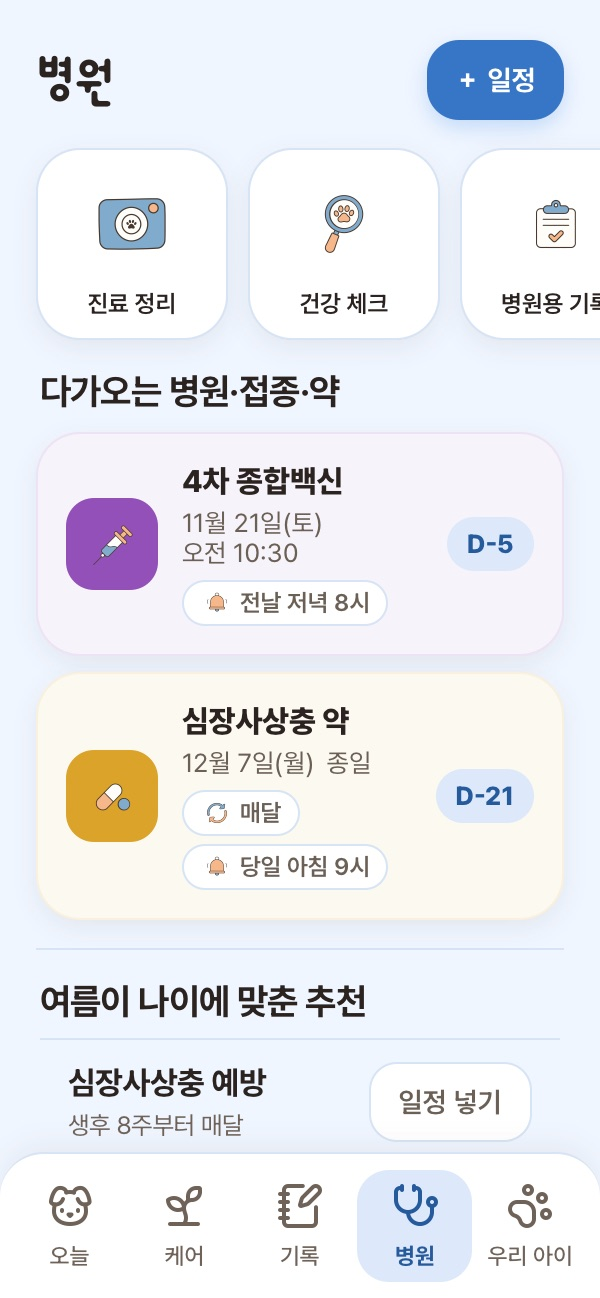
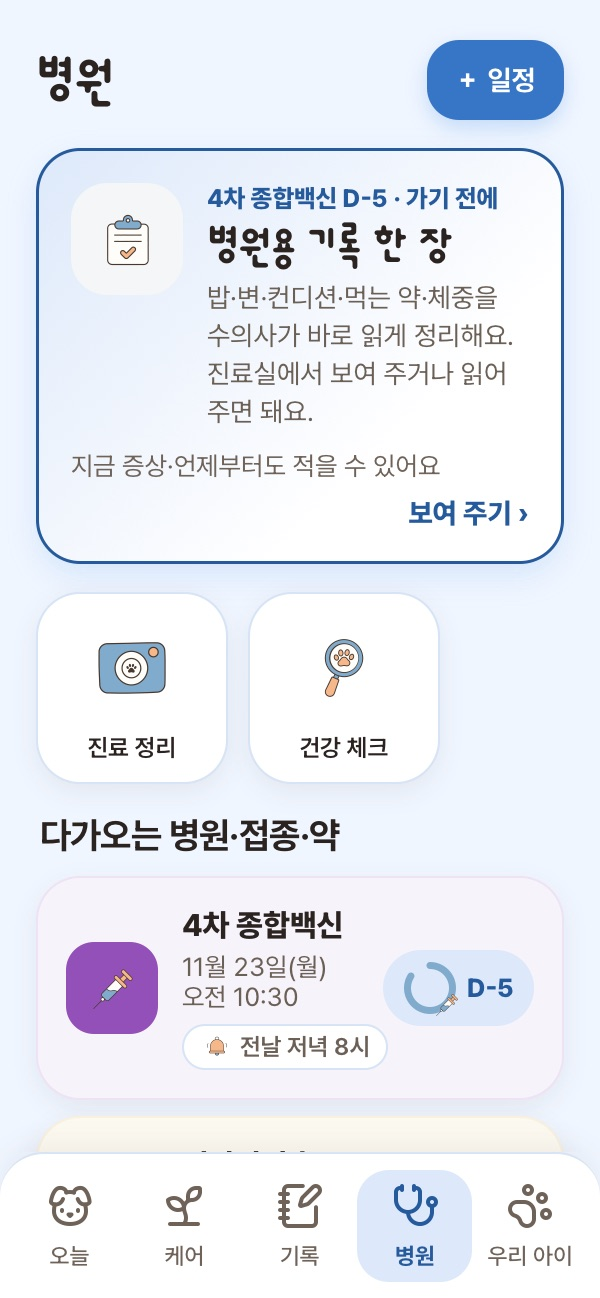
병원용 기록 앞세우기: 병원 탭 맨 위 큰 카드, 첫 걸음 1번 예시 미리보기, 홈페이지 첫 화면 문구·병원 탭 미리보기·스크린샷 v10

diff --git a/public/intro/guide/index.html b/public/intro/guide/index.html
@@ -96,7 +96,7 @@
           </div>
           <figure class="g-sec-shot"><img src="/intro/img/profile.jpg?v=9" alt="우리 아이 화면 예시" width="300" height="649" loading="lazy" /><figcaption>예시 화면</figcaption></figure>
         </header>
-        <article class="g-q" id="pf-card"><h3>맨 위 카드에는 뭐가 있어요?</h3><p>나이·견종·몸무게·중성화와 <b>먹는 약·알레르기</b>가 보여요. '정보 전체 보기'로 생일·입양일·다니는 병원 같은 정보를 펼쳐요.</p><p>우리 아이 탭 맨 위 <b>대표 사진</b>의 📷를 눌러 바꿔요. 아래 <b>성장 추억</b>에 사진을 여러 장 모을 수 있고, 사진을 누르면 그날의 문구를 적고 스티커·글자로 꾸미거나 대표 사진으로 바꿀 수 있어요. 병원·증상 사진은 성장 추억 대신 그 기록에 남아요.</p><p><b>프로필 편집</b>에서 정보를 고치고, 사진을 지울 수 있어요. 사진은 위 사진을 눌러 바꿔요.</p></article><article class="g-q" id="pf-vitals"><h3>건강 수치 칸은 어떻게 읽어요?</h3><p>처음엔 몸무게만 보여요. 호흡수·체온·음수량처럼 따로 재는 수치는 [편집]에서 켜요. 밥 먹은 양은 기록 탭의 식사에서 건식·습식과 g으로 한 번에 적어요. 칸을 누르면 그래프와 재는 방법이 나와요.</p><dl class="g-table"><div><dt>큰 숫자 + '오늘'</dt><dd>오늘 적은 값</dd></div><div><dt>'—' + '마지막 어제'</dt><dd>오늘은 아직 안 적었어요</dd></div><div><dt>흐린 숫자</dt><dd>오래된 값이에요 (7일, 몸무게는 30일 지남)</dd></div><div><dt>'참고 범위 밖'</dt><dd>일반적인 범위와 달라요. 계속되면 병원에 물어보세요</dd></div></dl><p class="g-tip"><svg class="sk" aria-hidden="true"><use href="/sk/stickers.svg?v=3#sk-idea"/></svg><span><b>알아 두면 좋아요</b> '편집'을 누르면 늘 보일 칸을 고를 수 있어요.</span></p></article><article class="g-q" id="pf-records"><h3>건강 기록은 뭘 적어요?</h3><p><b>기록 탭 → [＋ 새 기록]</b>을 누르거나, 달력에서 날짜를 고른 뒤 <b>[＋ 이날 더 적기]</b>를 눌러요. 새 기록을 누르면 <b>체중 · 밥·물 · 배변·배뇨 · 증상 · 건강 수치 · 복약 · 병원 진료 · 성장 추억 · 일상·컨디션</b> 아홉 가지 중에 골라요. 사진과 메모는 어디에나 붙일 수 있어요.</p><dl class="g-table"><div><dt>체중</dt><dd>몸무게(kg)와 잰 방법</dd></div><div><dt>밥·물</dt><dd>건식·습식·물을 양(g·ml)으로, 식욕과 물 마신 정도</dd></div><div><dt>배변·배뇨</dt><dd>대변(모양·색·보이는 것)과 소변 상태</dd></div><div><dt>증상</dt><dd>구토·설사·기침·절뚝거림 같은 종류와 횟수, 본 모습</dd></div><div><dt>건강 수치</dt><dd>호흡수·체온·음수량처럼 따로 재는 값</dd></div><div><dt>복약</dt><dd>먹인 약과 시각</dd></div><div><dt>병원 진료</dt><dd>병원·이유·설명·검사·처방. 진료비를 적으면 가계부에, 다음 진료일을 적으면 일정표에도 들어가요</dd></div><div><dt>성장 추억</dt><dd>사진을 모아 두고 그날의 문구를 적어요</dd></div><div><dt>일상·컨디션</dt><dd>산책·간식·미용·양치·놀이 / 활동량·수면·피부·구강</dd></div></dl></article><article class="g-q" id="pf-vet"><h3>병원용 기록은 뭐예요?</h3><figure class="g-shot"><img src="/intro/img/vet.jpg?v=9" alt="병원용 기록 화면 예시" width="300" height="649" loading="lazy" /><figcaption>병원용 기록 화면 예시</figcaption></figure><p>병원에서 <b>“언제부터 그랬어요?”</b>에 바로 답할 수 있게 기록을 한 장으로 정리해 줘요.</p><ol class="g-steps"><li>'이번 진료 메모'에 지금 보이는 증상, 언제부터, 여쭤볼 것을 적어요.</li><li>넣을 기록과 기간(7·30·90일)을 골라요.</li><li>진료실에서 <b>보여 주기</b>(크게), <b>읽어 주기</b>, <b>공유</b>, <b>PDF로 저장</b> 중에 써요.</li></ol></article><article class="g-q" id="pf-meds"><h3>약은 어떻게 챙겨요?</h3><ol class="g-steps"><li>'투약' 칸이나 '투약 기록'을 눌러 <b>약 관리</b>로 가요.</li><li>약 이름·1회 양·먹일 시간·요일·기간을 처방대로 넣어요.</li><li>시간이 되면 알림이 오고, <b>먹였어요</b>나 <b>건너뜀</b>을 눌러요.</li></ol><p>기록을 안 누른 약은 '확인 필요'로 보여요. 남은 양도 알려 줘요.</p></article><article class="g-q" id="pf-report"><h3>주간 리포트는 뭐예요?</h3><p>지난 7일 동안 적은 기록을 <b>숫자로 모아</b> 보여 줘요. 건강 기록 카드 아래 <b>'이번 주 리포트'</b>를 누르거나, <b>일요일 저녁 8시</b> 알림을 누르면 열려요.</p><dl class="g-table"><div><dt>산책</dt><dd>며칠, 모두 몇 분</dd></div><div><dt>밥</dt><dd>평소만큼 / 적게 먹은 횟수</dd></div><div><dt>무른 변·설사</dt><dd>있었던 날짜</dd></div><div><dt>증상 기록</dt><dd>날짜별 목록</dd></div><div><dt>체중</dt><dd>지난 기록과의 차이</dd></div><div><dt>혼자 있던 시간</dt><dd>[다녀올게]를 누른 날의 하루 평균</dd></div><div><dt>다음 7일</dt><dd>일정과 사료 남은 날</dd></div></dl><p class="g-note"><svg class="sk" aria-hidden="true"><use href="/sk/stickers.svg?v=3#sk-alert"/></svg><span>적어 둔 기록을 그대로 센 숫자예요. 몸 상태를 판단하거나 점수를 매기지 않아요.</span></p><p>리포트 아래 <b>[이번 주 카드로 자랑하기]</b>를 누르면 함께 본 날·산책·몸무게·기록 수를 예쁜 그림 한 장으로 만들어 인스타·카톡에 올릴 수 있어요. 건강 기록은 그림에 넣지 않아요.</p></article><article class="g-q" id="pf-settings"><h3>설정에는 뭐가 있어요?</h3><p>우리 아이 탭 오른쪽 위 <b>메뉴(☰)</b>를 누르세요. 묶음별로 정리돼 있어요.</p><dl class="g-table"><div><dt>계정</dt><dd><b>백업·로그인</b>(카카오·이메일, 계정 삭제) · <b>가족 공유</b>(초대 코드를 보내면 가족이 같은 기록을 봐요)</dd></div><div><dt>우리 강아지</dt><dd>강아지 목록(누르면 바뀌어요) · <b>가족(본가) 집에 있어요</b> 스위치 · 새 강아지 등록하기</dd></div><div><dt>화면</dt><dd>다크 모드 · 배경 테마(색 조합과 발바닥 무늬) · 퍼피 100일 카드 켜고 끄기</dd></div><div><dt>기록</dt><dd><b>기록 내보내기</b>(병원용 기록 PDF, 엑셀용 CSV, 전체 백업 JSON — 무료) · AI 정보 전송 동의 확인·철회</dd></div><div><dt>멍케어</dt><dd><b>의견 보내기</b>(베타 기간엔 여기로 불편한 점을 알려 주세요) · 도움말 · 문의하기 · 가이드북·홈페이지·블로그·인스타·스레드 링크</dd></div><div><dt>삭제</dt><dd>이 강아지 삭제 · 전체 삭제</dd></div></dl></article>
+        <article class="g-q" id="pf-card"><h3>맨 위 카드에는 뭐가 있어요?</h3><p>나이·견종·몸무게·중성화와 <b>먹는 약·알레르기</b>가 보여요. '정보 전체 보기'로 생일·입양일·다니는 병원 같은 정보를 펼쳐요.</p><p>우리 아이 탭 맨 위 <b>대표 사진</b>의 📷를 눌러 바꿔요. 아래 <b>성장 추억</b>에 사진을 여러 장 모을 수 있고, 사진을 누르면 그날의 문구를 적고 스티커·글자로 꾸미거나 대표 사진으로 바꿀 수 있어요. 병원·증상 사진은 성장 추억 대신 그 기록에 남아요.</p><p><b>프로필 편집</b>에서 정보를 고치고, 사진을 지울 수 있어요. 사진은 위 사진을 눌러 바꿔요.</p></article><article class="g-q" id="pf-vitals"><h3>건강 수치 칸은 어떻게 읽어요?</h3><p>처음엔 몸무게만 보여요. 호흡수·체온·음수량처럼 따로 재는 수치는 [편집]에서 켜요. 밥 먹은 양은 기록 탭의 식사에서 건식·습식과 g으로 한 번에 적어요. 칸을 누르면 그래프와 재는 방법이 나와요.</p><dl class="g-table"><div><dt>큰 숫자 + '오늘'</dt><dd>오늘 적은 값</dd></div><div><dt>'—' + '마지막 어제'</dt><dd>오늘은 아직 안 적었어요</dd></div><div><dt>흐린 숫자</dt><dd>오래된 값이에요 (7일, 몸무게는 30일 지남)</dd></div><div><dt>'참고 범위 밖'</dt><dd>일반적인 범위와 달라요. 계속되면 병원에 물어보세요</dd></div></dl><p class="g-tip"><svg class="sk" aria-hidden="true"><use href="/sk/stickers.svg?v=3#sk-idea"/></svg><span><b>알아 두면 좋아요</b> '편집'을 누르면 늘 보일 칸을 고를 수 있어요.</span></p></article><article class="g-q" id="pf-records"><h3>건강 기록은 뭘 적어요?</h3><p><b>기록 탭 → [＋ 새 기록]</b>을 누르거나, 달력에서 날짜를 고른 뒤 <b>[＋ 이날 더 적기]</b>를 눌러요. 새 기록을 누르면 <b>체중 · 밥·물 · 배변·배뇨 · 증상 · 건강 수치 · 복약 · 병원 진료 · 성장 추억 · 일상·컨디션</b> 아홉 가지 중에 골라요. 사진과 메모는 어디에나 붙일 수 있어요.</p><dl class="g-table"><div><dt>체중</dt><dd>몸무게(kg)와 잰 방법</dd></div><div><dt>밥·물</dt><dd>건식·습식·물을 양(g·ml)으로, 식욕과 물 마신 정도</dd></div><div><dt>배변·배뇨</dt><dd>대변(모양·색·보이는 것)과 소변 상태</dd></div><div><dt>증상</dt><dd>구토·설사·기침·절뚝거림 같은 종류와 횟수, 본 모습</dd></div><div><dt>건강 수치</dt><dd>호흡수·체온·음수량처럼 따로 재는 값</dd></div><div><dt>복약</dt><dd>먹인 약과 시각</dd></div><div><dt>병원 진료</dt><dd>병원·이유·설명·검사·처방. 진료비를 적으면 가계부에, 다음 진료일을 적으면 일정표에도 들어가요</dd></div><div><dt>성장 추억</dt><dd>사진을 모아 두고 그날의 문구를 적어요</dd></div><div><dt>일상·컨디션</dt><dd>산책·간식·미용·양치·놀이 / 활동량·수면·피부·구강</dd></div></dl></article><article class="g-q" id="pf-vet"><h3>병원용 기록은 뭐예요?</h3><figure class="g-shot"><img src="/intro/img/vet.jpg?v=10" alt="병원용 기록 화면 예시" width="300" height="649" loading="lazy" /><figcaption>병원용 기록 화면 예시</figcaption></figure><p>병원에서 <b>“언제부터 그랬어요?”</b>에 바로 답할 수 있게 기록을 한 장으로 정리해 줘요.</p><ol class="g-steps"><li>'이번 진료 메모'에 지금 보이는 증상, 언제부터, 여쭤볼 것을 적어요.</li><li>넣을 기록과 기간(7·30·90일)을 골라요.</li><li>진료실에서 <b>보여 주기</b>(크게), <b>읽어 주기</b>, <b>공유</b>, <b>PDF로 저장</b> 중에 써요.</li></ol></article><article class="g-q" id="pf-meds"><h3>약은 어떻게 챙겨요?</h3><ol class="g-steps"><li>'투약' 칸이나 '투약 기록'을 눌러 <b>약 관리</b>로 가요.</li><li>약 이름·1회 양·먹일 시간·요일·기간을 처방대로 넣어요.</li><li>시간이 되면 알림이 오고, <b>먹였어요</b>나 <b>건너뜀</b>을 눌러요.</li></ol><p>기록을 안 누른 약은 '확인 필요'로 보여요. 남은 양도 알려 줘요.</p></article><article class="g-q" id="pf-report"><h3>주간 리포트는 뭐예요?</h3><p>지난 7일 동안 적은 기록을 <b>숫자로 모아</b> 보여 줘요. 건강 기록 카드 아래 <b>'이번 주 리포트'</b>를 누르거나, <b>일요일 저녁 8시</b> 알림을 누르면 열려요.</p><dl class="g-table"><div><dt>산책</dt><dd>며칠, 모두 몇 분</dd></div><div><dt>밥</dt><dd>평소만큼 / 적게 먹은 횟수</dd></div><div><dt>무른 변·설사</dt><dd>있었던 날짜</dd></div><div><dt>증상 기록</dt><dd>날짜별 목록</dd></div><div><dt>체중</dt><dd>지난 기록과의 차이</dd></div><div><dt>혼자 있던 시간</dt><dd>[다녀올게]를 누른 날의 하루 평균</dd></div><div><dt>다음 7일</dt><dd>일정과 사료 남은 날</dd></div></dl><p class="g-note"><svg class="sk" aria-hidden="true"><use href="/sk/stickers.svg?v=3#sk-alert"/></svg><span>적어 둔 기록을 그대로 센 숫자예요. 몸 상태를 판단하거나 점수를 매기지 않아요.</span></p><p>리포트 아래 <b>[이번 주 카드로 자랑하기]</b>를 누르면 함께 본 날·산책·몸무게·기록 수를 예쁜 그림 한 장으로 만들어 인스타·카톡에 올릴 수 있어요. 건강 기록은 그림에 넣지 않아요.</p></article><article class="g-q" id="pf-settings"><h3>설정에는 뭐가 있어요?</h3><p>우리 아이 탭 오른쪽 위 <b>메뉴(☰)</b>를 누르세요. 묶음별로 정리돼 있어요.</p><dl class="g-table"><div><dt>계정</dt><dd><b>백업·로그인</b>(카카오·이메일, 계정 삭제) · <b>가족 공유</b>(초대 코드를 보내면 가족이 같은 기록을 봐요)</dd></div><div><dt>우리 강아지</dt><dd>강아지 목록(누르면 바뀌어요) · <b>가족(본가) 집에 있어요</b> 스위치 · 새 강아지 등록하기</dd></div><div><dt>화면</dt><dd>다크 모드 · 배경 테마(색 조합과 발바닥 무늬) · 퍼피 100일 카드 켜고 끄기</dd></div><div><dt>기록</dt><dd><b>기록 내보내기</b>(병원용 기록 PDF, 엑셀용 CSV, 전체 백업 JSON — 무료) · AI 정보 전송 동의 확인·철회</dd></div><div><dt>멍케어</dt><dd><b>의견 보내기</b>(베타 기간엔 여기로 불편한 점을 알려 주세요) · 도움말 · 문의하기 · 가이드북·홈페이지·블로그·인스타·스레드 링크</dd></div><div><dt>삭제</dt><dd>이 강아지 삭제 · 전체 삭제</dd></div></dl></article>
         <a class="g-next" href="#calendar"><span>다음</span><b>병원 · 일정표</b><svg class="ic" aria-hidden="true"><use href="/intro/sprite.svg#i-chev"/></svg></a>
       </section>
       <section class="g-sec" id="calendar" aria-labelledby="calendar-t">
@@ -107,7 +107,7 @@
             <p class="g-sum">챙겨야 할 날을 넣어 두면 대신 기억하고 미리 알려 주는 달력이에요.</p>
             <nav class="g-qlist" aria-label="병원 · 일정표에서 궁금한 것"><a href="#cl-doc">진료 정리는 뭐예요?<svg class="ic" aria-hidden="true"><use href="/intro/sprite.svg#i-chev"/></svg></a><a href="#cl-add">일정은 어떻게 넣어요?<svg class="ic" aria-hidden="true"><use href="/intro/sprite.svg#i-chev"/></svg></a><a href="#cl-repeat">매달 하는 일은요?<svg class="ic" aria-hidden="true"><use href="/intro/sprite.svg#i-chev"/></svg></a><a href="#cl-alarm">알림은 언제 와요?<svg class="ic" aria-hidden="true"><use href="/intro/sprite.svg#i-chev"/></svg></a><a href="#cl-holiday">빨간 날짜는 뭐예요?<svg class="ic" aria-hidden="true"><use href="/intro/sprite.svg#i-chev"/></svg></a><a href="#cl-vet">다녀온 병원도 보여요?<svg class="ic" aria-hidden="true"><use href="/intro/sprite.svg#i-chev"/></svg></a><a href="#cl-today">다른 달을 보다가 오늘로 오려면요?<svg class="ic" aria-hidden="true"><use href="/intro/sprite.svg#i-chev"/></svg></a></nav>
           </div>
-          <figure class="g-sec-shot"><img src="/intro/img/hospital.jpg?v=9" alt="병원 화면 예시" width="300" height="649" loading="lazy" /><figcaption>예시 화면</figcaption></figure>
+          <figure class="g-sec-shot"><img src="/intro/img/hospital.jpg?v=10" alt="병원 화면 예시" width="300" height="649" loading="lazy" /><figcaption>예시 화면</figcaption></figure>
         </header>
         <article class="g-q" id="cl-doc"><h3>진료 정리는 뭐예요?</h3><p>병원 탭 <b>[진료 정리]</b>에 영수증·진료비 세부내역서·처방전·약봉투 사진(3장까지)을 넣고, 들은 설명을 적으면 진료 기록 칸을 채워 드려요. <b>맞는지 확인</b>한 뒤 저장해요.</p><ol class="g-steps"><li>사진의 <b>[가리기]</b>로 보호자 이름·전화번호·카드번호를 칠해요(가린 사진만 보내요).</li><li>[정리하기] → 날짜·병원·이유·소견·검사·처방·주의사항·다음 진료일·항목별 금액을 확인해요.</li><li>약이 읽히면 <b>약 일정 초안</b>이 나와요. 1회 양·하루 횟수·며칠분을 처방전과 맞춰 보고 체크하면 약 관리에 들어가요(용량은 바꾸지 않아요).</li><li>진료 전에 적어 둔 <b>물어볼 것</b>이 보이면 들은 답을 적어 두세요.</li></ol><p>AI를 쓰고 싶지 않으면 <b>[AI 없이 직접 적기]</b>로 같은 칸을 직접 채워요. 진료비는 가계부(병원비)에, 다음 진료일은 일정과 알림에 같이 들어가요.</p></article><article class="g-q" id="cl-add"><h3>일정은 어떻게 넣어요?</h3><ol class="g-steps"><li>오른쪽 위 <b>＋ 일정</b>을 누르거나, 날짜를 누르고 '이 날 일정 추가'를 눌러요.</li><li><b>무엇을</b>: 병원·재검·접종·정기검진·스케일링·구충·심장사상충·미용·약·호텔·돌봄·기념일·기타 중에 고르고 제목을 써요.</li><li><b>언제</b>: 날짜와 시간(또는 종일)을 골라요.</li><li><b>알림</b>: 받을지 골라요. 그리고 저장!</li></ol></article><article class="g-q" id="cl-repeat"><h3>매달 하는 일은요?</h3><p>'언제'에서 <b>반복</b>을 고르세요. 매주·매달·매년이 있어요. 심장사상충 약처럼 매달 하는 일에 좋아요.</p><p>호텔링·입원처럼 며칠 이어지는 일은 <b>'며칠'</b>을 고르고 시작일과 끝나는 날을 누르세요.</p><p class="g-tip"><svg class="sk" aria-hidden="true"><use href="/sk/stickers.svg?v=3#sk-idea"/></svg><span><b>알아 두면 좋아요</b> 반복 일정을 고치거나 지울 때 <b>'이번 일정만'</b>인지 <b>'이후 모두'</b>인지 물어봐요.</span></p></article><article class="g-q" id="cl-alarm"><h3>알림은 언제 와요?</h3><dl class="g-table"><div><dt>전날 저녁 8시</dt><dd>하루 전에 미리</dd></div><div><dt>당일 아침 9시</dt><dd>그날 아침에</dd></div><div><dt>1시간 전</dt><dd>시간을 정한 일정만</dd></div></dl></article><article class="g-q" id="cl-holiday"><h3>빨간 날짜는 뭐예요?</h3><p><b>일요일과 공휴일</b>이에요. 공휴일은 이름도 작게 보여서 병원 예약 잡기 편해요.</p></article><article class="g-q" id="cl-vet"><h3>다녀온 병원도 보여요?</h3><p>병원 진료 기록이 있는 날엔 달력에 <b>빈 동그라미</b>가 보이고, 날짜를 누르면 내용이 나와요.</p><p>지난 병원 일정을 누르면 <b>'다녀왔나요? 진료 내용 기록하기'</b> 버튼이 나와요. 누르면 진료 기록이 채워져서 열려요.</p></article><article class="g-q" id="cl-today"><h3>다른 달을 보다가 오늘로 오려면요?</h3><p>달 이름 옆 <b>'오늘'</b> 버튼을 누르세요. 화면 아래 '다가오는 일정'에는 90일 안의 일정이 가까운 순서로 나와요.</p></article>
         <a class="g-next" href="#budget"><span>다음</span><b>가계부</b><svg class="ic" aria-hidden="true"><use href="/intro/sprite.svg#i-chev"/></svg></a>

diff --git a/public/intro/index.html b/public/intro/index.html
@@ -9,8 +9,8 @@
     <meta name="google-site-verification" content="w5deZEI5kLveffBNFTTpUQdZUWpYn53A82fAOkrAIQg" />
     <meta name="google-site-verification" content="AtQ9wlZ8x0Ew4oq_ykp-QgD_w0nPJumbhyspIwdYjzY" />
   <meta name="viewport" content="width=device-width, initial-scale=1, viewport-fit=cover" />
-  <title>멍케어 · 하루 10초, 우리 아이 건강 수첩</title>
-  <meta name="description" content="강아지가 “오늘 나 어땠어?” 하고 물으면 한 번만 누르면 돼요. 다른 날만 달력에 남고, 병원에서 한 장으로 보여 주고, 다녀오면 영수증 사진으로 진료를 정리해요. 지금은 베타라 무료예요." />
+  <title>멍케어 · 병원 가기 전, 한 장이면 돼요</title>
+  <meta name="description" content="진료실에서 말문이 막히지 않게. 하루 10초 [평소와 같아요] 체크가 모여 수의사에게 보여 줄 병원용 기록 한 장이 되고, 다녀오면 영수증 사진으로 진료 정리까지. 지금은 베타라 무료예요." />
   <!-- 이 페이지가 쓰는 자원만 허용(외부는 글꼴 CDN뿐). frame-ancestors 등 헤더로만 되는 건 Render 설정에서 -->
   <meta http-equiv="Content-Security-Policy" content="default-src 'self'; script-src 'self'; style-src 'self' https://cdn.jsdelivr.net; font-src 'self' https://cdn.jsdelivr.net; img-src 'self' data:; connect-src 'self' https://dog-care-app.onrender.com; base-uri 'self'; form-action 'self'" />
   <meta name="referrer" content="strict-origin-when-cross-origin" />
@@ -19,16 +19,16 @@
   <link rel="canonical" href="https://meongcare.kr/intro/" />
   <meta property="og:type" content="website" />
   <meta property="og:site_name" content="멍케어" />
-  <meta property="og:title" content="멍케어 · 하루 10초, 우리 아이 건강 수첩" />
-  <meta property="og:description" content="“오늘 나 어땠어?”에 한 번만 누르면 기록 끝. 병원에서 한 장으로 보여 주고, 다녀오면 사진으로 진료 정리까지." />
+  <meta property="og:title" content="멍케어 · 병원 가기 전, 한 장이면 돼요" />
+  <meta property="og:description" content="하루 10초 체크가 모여 수의사에게 보여 줄 병원용 기록 한 장이 돼요. 다녀오면 영수증 사진으로 진료 정리까지." />
   <meta property="og:url" content="https://meongcare.kr/intro/" />
   <meta property="og:image" content="https://meongcare.kr/intro/img/og-2x1.png?v=3" />
   <meta property="og:image:width" content="1200" />
   <meta property="og:image:height" content="600" />
   <meta property="og:locale" content="ko_KR" />
   <meta name="twitter:card" content="summary_large_image" />
-  <meta name="twitter:title" content="멍케어 · 하루 10초, 우리 아이 건강 수첩" />
-  <meta name="twitter:description" content="“오늘 나 어땠어?”에 한 번만 누르면 기록 끝. 병원에서 한 장으로 보여 주고, 다녀오면 사진으로 진료 정리까지." />
+  <meta name="twitter:title" content="멍케어 · 병원 가기 전, 한 장이면 돼요" />
+  <meta name="twitter:description" content="하루 10초 체크가 모여 수의사에게 보여 줄 병원용 기록 한 장이 돼요. 다녀오면 영수증 사진으로 진료 정리까지." />
   <meta name="twitter:image" content="https://meongcare.kr/intro/img/og-2x1.png?v=3" />
   <link rel="icon" href="/favicon.ico?v=6" sizes="any" />
   <link rel="icon" type="image/png" sizes="192x192" href="/icon-192.png?v=6" />
@@ -84,11 +84,11 @@
         <div class="hero-text">
           <p class="eyebrow"><svg class="d" aria-hidden="true"><use href="#d-paw"/></svg>강아지 건강 기록 앱 · 멍케어</p>
           <p class="ask" aria-hidden="true">오늘 나 어땠어?</p>
-          <h1><span class="h1-a">하루 10초,</span><span class="h1-b">우리 아이 <em>건강 수첩</em></span></h1>
-          <p class="lead">강아지가 먼저 물으면 <b>[평소와 같아요]</b> 한 번. 다른 날만 달력에 남고, 병원에서는 <b>한 장으로 보여 주고</b>, 다녀오면 <b>영수증 사진으로 진료 정리</b>까지 이어져요.</p>
+          <h1><span class="h1-a">병원 가기 전,</span><span class="h1-b"><em>한 장</em>이면 돼요</span></h1>
+          <p class="lead">진료실에서 “평소엔 어땠어요?”에 말문이 막히지 않게. 강아지가 물으면 <b>[평소와 같아요]</b> 한 번, 하루 10초. 그 체크가 모여 수의사에게 보여 줄 <b>병원용 기록 한 장</b>이 되고, 다녀오면 <b>영수증 사진으로 진료 정리</b>까지 이어져요.</p>
           <ul class="hero-points">
-            <li><svg class="sk" aria-hidden="true"><use href="/sk/stickers.svg?v=3#sk-checklist"/></svg>하루 체크</li>
-            <li><svg class="sk" aria-hidden="true"><use href="/sk/stickers.svg?v=3#sk-clipboard"/></svg>병원용 기록</li>
+            <li><svg class="sk" aria-hidden="true"><use href="/sk/stickers.svg?v=3#sk-clipboard"/></svg>병원용 기록 한 장</li>
+            <li><svg class="sk" aria-hidden="true"><use href="/sk/stickers.svg?v=3#sk-checklist"/></svg>하루 10초 체크</li>
             <li><svg class="sk" aria-hidden="true"><use href="/sk/stickers.svg?v=3#sk-media"/></svg>진료 정리</li>
             <li><svg class="sk" aria-hidden="true"><use href="/sk/stickers.svg?v=3#sk-bell"/></svg>병원·약 알림</li>
           </ul>
@@ -105,10 +105,10 @@
         <div class="demo" id="demo">
           <p class="demo-hint" aria-hidden="true"><span class="hand">👆</span> 아래 탭을 눌러 보세요</p>
           <div class="phone demo-phone">
-            <div class="screens"><img class="scr on" src="/intro/img/today.jpg?v=9" alt="" width="300" height="649" fetchpriority="high" /><img class="scr" src="/intro/img/care.jpg?v=9" alt="" width="300" height="649" loading="lazy" /><img class="scr" src="/intro/img/records.jpg?v=9" alt="" width="300" height="649" loading="lazy" /><img class="scr" src="/intro/img/hospital.jpg?v=9" alt="" width="300" height="649" loading="lazy" /><img class="scr" src="/intro/img/profile.jpg?v=9" alt="" width="300" height="649" loading="lazy" /></div>
+            <div class="screens"><img class="scr" src="/intro/img/today.jpg?v=9" alt="" width="300" height="649" loading="lazy" /><img class="scr" src="/intro/img/care.jpg?v=9" alt="" width="300" height="649" loading="lazy" /><img class="scr" src="/intro/img/records.jpg?v=9" alt="" width="300" height="649" loading="lazy" /><img class="scr on" src="/intro/img/hospital.jpg?v=10" alt="" width="300" height="649" fetchpriority="high" /><img class="scr" src="/intro/img/profile.jpg?v=9" alt="" width="300" height="649" loading="lazy" /></div>
             <span class="tag">간략 미리보기</span>
             <div class="nav-glow" aria-hidden="true"><span>여기를 눌러 보세요</span></div>
-            <div class="hots" role="tablist" aria-label="멍케어 다섯 탭 둘러보기"><button type="button" role="tab" id="tab-assistant" class="hot" aria-selected="true" aria-controls="panel-assistant" tabindex="0"><span class="sr">오늘 탭 설명 보기</span><i class="ping" aria-hidden="true"></i></button><button type="button" role="tab" id="tab-care" class="hot" aria-selected="false" aria-controls="panel-care" tabindex="-1"><span class="sr">케어 탭 설명 보기</span><i class="ping" aria-hidden="true"></i></button><button type="button" role="tab" id="tab-records" class="hot" aria-selected="false" aria-controls="panel-records" tabindex="-1"><span class="sr">기록 탭 설명 보기</span><i class="ping" aria-hidden="true"></i></button><button type="button" role="tab" id="tab-hospital" class="hot" aria-selected="false" aria-controls="panel-hospital" tabindex="-1"><span class="sr">병원 탭 설명 보기</span><i class="ping" aria-hidden="true"></i></button><button type="button" role="tab" id="tab-profile" class="hot" aria-selected="false" aria-controls="panel-profile" tabindex="-1"><span class="sr">우리 아이 탭 설명 보기</span><i class="ping" aria-hidden="true"></i></button></div>
+            <div class="hots" role="tablist" aria-label="멍케어 다섯 탭 둘러보기"><button type="button" role="tab" id="tab-assistant" class="hot" aria-selected="false" aria-controls="panel-assistant" tabindex="-1"><span class="sr">오늘 탭 설명 보기</span><i class="ping" aria-hidden="true"></i></button><button type="button" role="tab" id="tab-care" class="hot" aria-selected="false" aria-controls="panel-care" tabindex="-1"><span class="sr">케어 탭 설명 보기</span><i class="ping" aria-hidden="true"></i></button><button type="button" role="tab" id="tab-records" class="hot" aria-selected="false" aria-controls="panel-records" tabindex="-1"><span class="sr">기록 탭 설명 보기</span><i class="ping" aria-hidden="true"></i></button><button type="button" role="tab" id="tab-hospital" class="hot" aria-selected="true" aria-controls="panel-hospital" tabindex="0"><span class="sr">병원 탭 설명 보기</span><i class="ping" aria-hidden="true"></i></button><button type="button" role="tab" id="tab-profile" class="hot" aria-selected="false" aria-controls="panel-profile" tabindex="-1"><span class="sr">우리 아이 탭 설명 보기</span><i class="ping" aria-hidden="true"></i></button></div>
           </div>
           <div class="floats" data-for="assistant" aria-hidden="true"><div class="float f1"><svg class="sk" aria-hidden="true"><use href="/sk/stickers.svg?v=3#sk-checklist"/></svg>[평소와 같아요] → 10초면 끝</div><div class="float f2"><svg class="sk" aria-hidden="true"><use href="/sk/stickers.svg?v=3#sk-mic"/></svg>“산책 30분 했어” 바로 저장</div><div class="float f3"><svg class="sk" aria-hidden="true"><use href="/sk/stickers.svg?v=3#sk-house"/></svg>[다녀올게] 혼자 있는 시간</div></div><div class="floats" data-for="care" aria-hidden="true"><div class="float f1"><svg class="sk" aria-hidden="true"><use href="/sk/stickers.svg?v=3#sk-handHeart"/></svg>지금 시기 → 챙길 것이 먼저</div><div class="float f2"><svg class="sk" aria-hidden="true"><use href="/sk/stickers.svg?v=3#sk-bone"/></svg>간식 열량·물 양은 우리 아이 숫자로</div><div class="float f3"><svg class="sk" aria-hidden="true"><use href="/sk/stickers.svg?v=3#sk-idea"/></svg>왜 지금인지 → 이렇게 해요 → 피해요</div></div>
           <div class="floats" data-for="records" aria-hidden="true"><div class="float f1"><svg class="sk" aria-hidden="true"><use href="/sk/stickers.svg?v=3#sk-calendar"/></svg>다른 날만 달력에 표시</div><div class="float f2"><svg class="sk" aria-hidden="true"><use href="/sk/stickers.svg?v=3#sk-search"/></svg>“언제부터였어요?” 바로 찾기</div><div class="float f3"><svg class="sk" aria-hidden="true"><use href="/sk/stickers.svg?v=3#sk-weight"/></svg>몸무게 변화 그래프</div></div>
@@ -227,7 +227,7 @@
               </ul>
               <p class="svc-note">멍케어는 진료를 하지 않아요. 기록을 정리해 보호자와 수의사의 대화를 돕습니다.</p>
             </div>
-            <div class="svc-shots"><figure class="phone mini"><img src="/intro/img/hospital.jpg?v=9" alt="병원 화면 예시" width="300" height="649" loading="lazy" /></figure><figure class="phone mini"><img src="/intro/img/vet.jpg?v=9" alt="병원용 기록 화면 예시" width="300" height="649" loading="lazy" /></figure><span class="tag">예시 화면</span></div>
+            <div class="svc-shots"><figure class="phone mini"><img src="/intro/img/hospital.jpg?v=10" alt="병원 화면 예시" width="300" height="649" loading="lazy" /></figure><figure class="phone mini"><img src="/intro/img/vet.jpg?v=10" alt="병원용 기록 화면 예시" width="300" height="649" loading="lazy" /></figure><span class="tag">예시 화면</span></div>
             <div class="svc-foot">
               <a class="btn btn-lg btn-ghost" href="/intro/guide/#calendar">자세한 설명서 보기</a>
               <button type="button" class="btn btn-lg svc-back">휴대폰으로 돌아가기</button>

diff --git a/src/screens/Main.jsx b/src/screens/Main.jsx
@@ -58,7 +58,8 @@ export default function Main({ dog, resetSignal, onReadingChange, onOpenGuide, o
   const [typing, setTyping] = useState(false); // 입력창에 포커스 — 예시 문장을 이때만 펼친다(11/9)
   const [hop, setHop] = useState(false); // 하루 체크를 끝내면 강아지가 폴짝(모션 6곳 중 하나, 11/9)
   const hopNow = () => (setHop(true), setTimeout(() => setHop(false), 1100));
-  const [stampMoment, setStampMoment] = useState(false); // 하루 체크 끝 → 어두운 배경 위 스탬프 노트(도장 "쿵") 한 번
+  const [stampMoment, setStampMoment] = useState(false);
+  const [vetPreview, setVetPreview] = useState(false); // 첫 걸음 ① 병원용 기록 미리 보기(예시로 채운 한 장) // 하루 체크 끝 → 어두운 배경 위 스탬프 노트(도장 "쿵") 한 번
   const inputRef = useRef("");
   const inputElRef = useRef(null);
   // 입력칸은 글이 길어지면 5줄까지 늘어난다
@@ -340,7 +341,7 @@ export default function Main({ dog, resetSignal, onReadingChange, onOpenGuide, o
                 dog={dog}
                 onWeight={onOpenWeight}
                 onUsual={() => setUsualOpen(true)}
-                onVet={onOpenVet}
+                onVet={() => setVetPreview(true)}
                 onLater={() => (markFirstSteps(dog.id, { dismissed: true }), refresh((n) => n + 1))}
               />
             </SpeechBubble>
@@ -389,6 +390,7 @@ export default function Main({ dog, resetSignal, onReadingChange, onOpenGuide, o
       </div>
 
       {stampMoment && <StampMoment dogId={dog.id} onDone={() => setStampMoment(false)} />}
+      {vetPreview && <VetPreviewSheet dog={dog} onClose={() => (markFirstSteps(dog.id, { vet: true }), setVetPreview(false), refresh((n) => n + 1))} onOpenVet={() => (markFirstSteps(dog.id, { vet: true }), setVetPreview(false), onOpenVet())} />}
 
       {isChat && avatarState === "thinking" && <ThinkingBubble top={`calc(${CORNER_TOP} + 26px)`} />}
 
@@ -652,14 +654,51 @@ function TodaySummary({ dog, onOpen, outing }) {
   );
 }
 
+// 첫 걸음 ① 병원용 기록 미리 보기: 기록이 없는 첫날엔 진짜 화면이 "기록 없음"뿐이라, 예시 강아지로 채운 한 장을 먼저 보여 준다(11/18)
+function VetPreviewSheet({ dog, onClose, onOpenVet }) {
+  const secs = [
+    ["보호자 메모", ["지금 보이는 증상: 구토 · 그저께 아침부터", "여쭤볼 것: 공복 구토가 이어지면 밥 시간을 바꿔야 할까요?"], true],
+    ["증상 기록 (최근 30일)", ["11/16 07:40 구토 · 아침 공복에 노란 거품, 그 뒤 밥은 먹음", "11/17 06:50 구토 · 양 적음"]],
+    ["체중", ["최근: 2.4kg (11/17)", "변화: 10/19 2.5kg → 2.4kg (-0.1kg)"]],
+    ["식사·배변·컨디션 (하루 체크, 최근 30일)", ["평소 26일 · 다른 날 4일(밥 2, 변 2)", "식욕: 평소보다 적음 2번(11/16, 11/17)", "대변: 무름 1번(11/16)"]],
+    ["먹는 약", ["심장사상충 예방약 · 매달 1일 · 마지막 11/1"]],
+  ];
+  return createPortal(
+    <div className="es-backdrop" onClick={(e) => e.target === e.currentTarget && onClose()}>
+      <div className="es-sheet" role="dialog" aria-label="병원용 기록 미리 보기">
+        <div className="es-top">
+          <button type="button" className="es-x" aria-label="닫기" onClick={onClose}>✕</button>
+          <div className="es-title">병원 갈 때 이 한 장을 보여 줘요</div>
+          <span style={{ width: 36 }} />
+        </div>
+        <div className="es-scroll" style={{ padding: "4px 16px 20px" }}>
+          <p className="subtle" style={{ margin: "0 0 10px" }}>하루 체크와 기록이 모여 이렇게 정리돼요. 아래는 <b>예시 강아지</b>의 기록이에요.</p>
+          <div className="card vet-doc">
+            <div className="vet-doc-head"><span>보리 병원용 기록</span><span className="faint">예시</span></div>
+            {secs.map(([t, lines, note]) => (
+              <section key={t} className={`vet-sec${note ? " note" : ""}`}>
+                <div className="vet-sec-title">{t}</div>
+                {lines.map((l) => <div key={l} className="vet-line">{l}</div>)}
+              </section>
+            ))}
+          </div>
+          <button type="button" className="btn-primary" style={{ width: "100%", marginTop: 14 }} onClick={onOpenVet}><Ico name="clipboard" size={18} /> {dog.name} 기록으로 열어 보기</button>
+          <p className="faint" style={{ margin: "8px 0 0", textAlign: "center" }}>오늘부터 쌓이는 기록이 그대로 들어가요. 병원 탭 맨 위에서 언제든 열 수 있어요.</p>
+        </div>
+      </div>
+    </div>,
+    document.body,
+  );
+}
+
 // 처음 쓰는 사람: 말풍선이 "첫 걸음 3가지"를 말한다. 한 것은 ✓(실제 기록으로 판단), 누르면 그 화면으로
 // 첫 걸음(병원 수첩에 맞춤, 11/7): 몸무게 · 평소 모습(다른 날과 비교할 기준) · 병원용 기록 미리 보기(이렇게 쌓여요)
 function FirstSteps({ dog, onWeight, onUsual, onVet, onLater }) {
   const { steps } = getFirstSteps(dog.id);
   const items = [
+    ["vet", "clipboard", "rose", "병원용 기록 미리 보기", onVet], // 11/18: 맨 앞으로(앱의 주인공 — Gemini 점검 → 사용자 결정)
     ["weight", "scales", "blue", "지금 몸무게 적기", onWeight],
     ["usual", "pencil", "teal", "평소 모습 적어 두기", onUsual],
-    ["vet", "clipboard", "rose", "병원용 기록 미리 보기", onVet],
   ];
   return (
     <span className="summary">

diff --git a/src/screens/Calendar.jsx b/src/screens/Calendar.jsx
@@ -101,6 +101,20 @@ export default function Calendar({ dog, onRecordVisit, onOpenVet, onOpenBudget, 
         <div className="h1" style={{ margin: 0 }}>병원</div>
         <button type="button" className="btn-primary small" onClick={() => setSheet({ start: selectedDateKey < today ? today : selectedDateKey })}>＋ 일정</button>
       </div>
+      {/* 11/18 병원용 기록 앞세우기(Gemini 점검 → 사용자 결정): 작은 타일 대신 맨 위 큰 카드. 다음 병원 일정이 있으면 그 D-day를 머리에 */}
+      {(() => { const nv = upcoming.find((o) => isVisitEvent(o.event)); return (
+        <button type="button" className="care-guide vet-front" onClick={onOpenVet}>
+          <span className="care-guide-top">
+            <span className="care-guide-ico"><Ico name="clipboard" size={34} sticker /></span>
+            <span className="care-guide-text">
+              <span className="care-guide-sub">{nv ? `${nv.event.title} ${dDay(today, nv.date)} · 가기 전에` : "병원 가기 전에"}</span>
+              <span className="care-guide-title">병원용 기록 한 장</span>
+              <span className="care-guide-desc">밥·변·컨디션·먹는 약·체중을 수의사가 바로 읽게 정리해요. 진료실에서 보여 주거나 읽어 주면 돼요.</span>
+            </span>
+          </span>
+          <span className="care-guide-foot"><span className="faint">지금 증상·언제부터도 적을 수 있어요</span><span className="care-guide-go">보여 주기 ›</span></span>
+        </button>
+      ); })()}
       <div className="quick-actions" style={{ marginBottom: 14 }}>{/* 11/14: 색 상자 제거(사용자), 기록 타일과 같은 흰 타일 + 스티커 */}
         <button className="quick-tile" onClick={() => setDocOpen(true)}>
           <span className="quick-tile-icon" aria-hidden="true"><Ico name="camera" size={24} sticker /></span>
@@ -109,10 +123,6 @@ export default function Calendar({ dog, onRecordVisit, onOpenVet, onOpenBudget, 
         <button className="quick-tile" onClick={onOpenHealth}>
           <span className="quick-tile-icon" aria-hidden="true"><Ico name="scan" size={24} sticker /></span>
           <span className="quick-tile-label">건강 체크</span>
-        </button>
-        <button className="quick-tile" onClick={onOpenVet}>
-          <span className="quick-tile-icon" aria-hidden="true"><Ico name="clipboard" size={24} sticker /></span>
-          <span className="quick-tile-label">병원용 기록</span>
         </button>
       </div>
 
